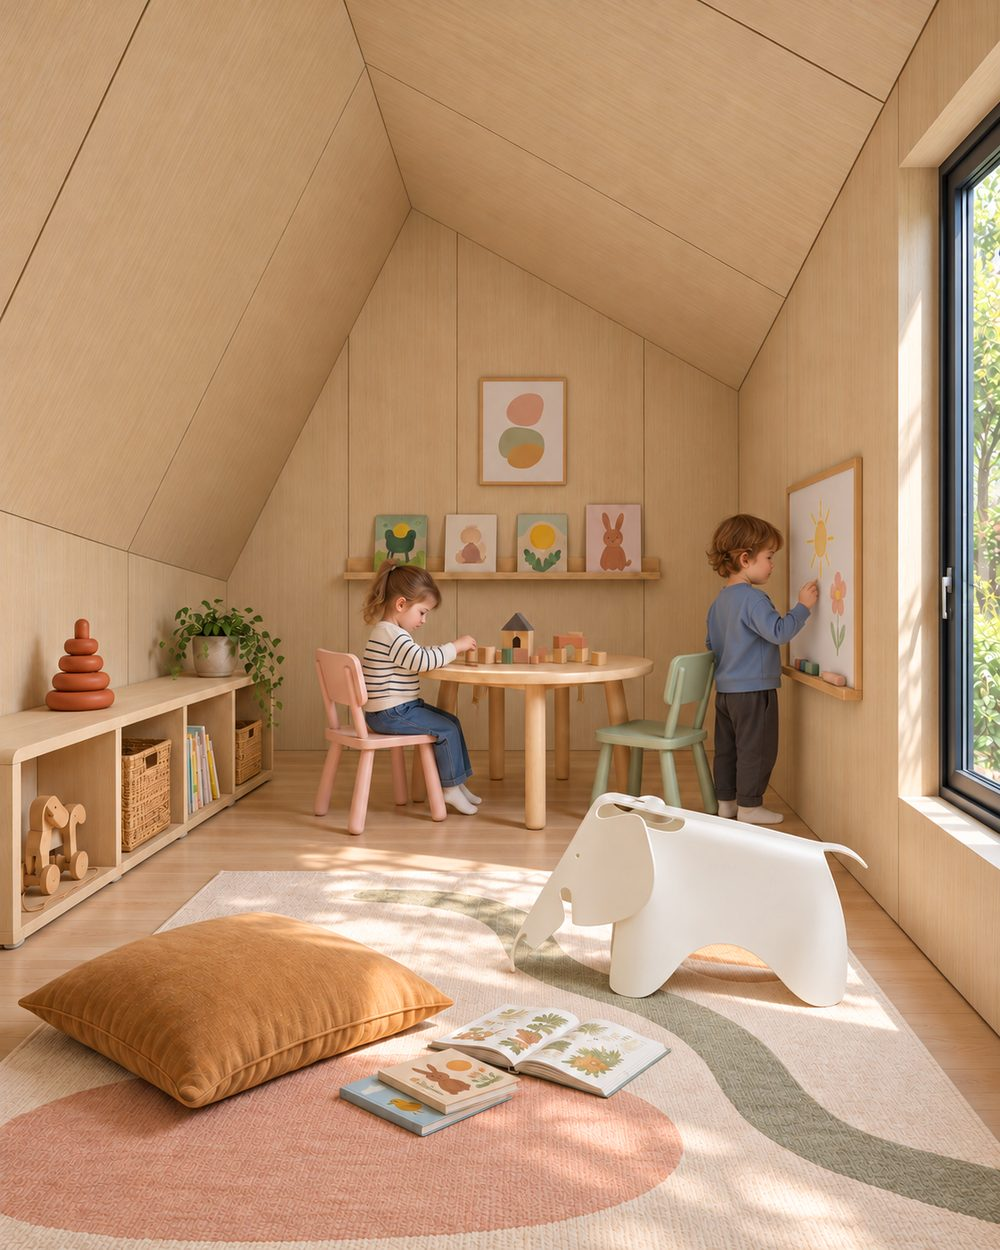
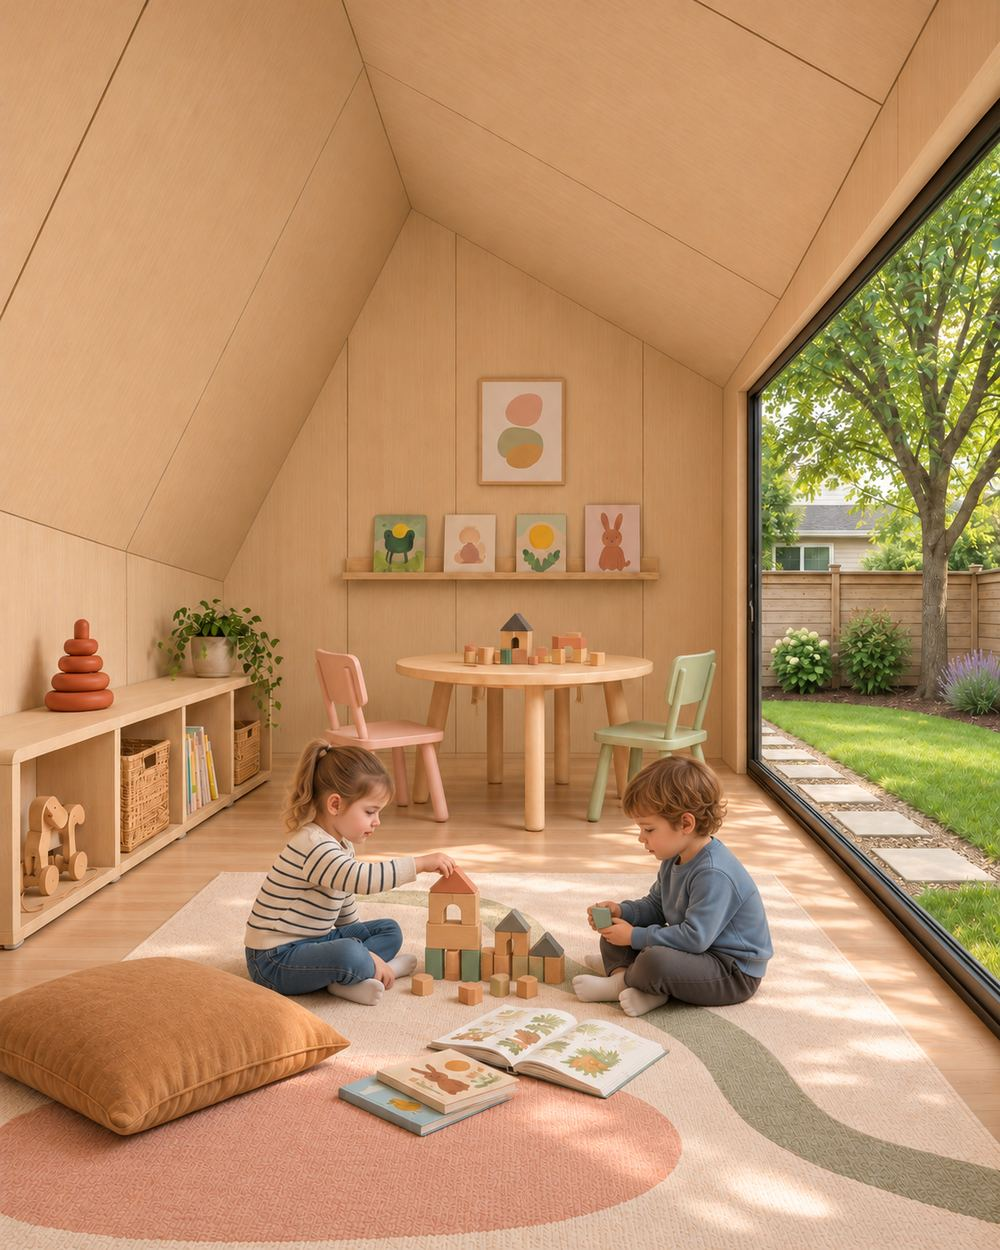
Add files via upload

diff --git a/index.html b/index.html
@@ -178,7 +178,7 @@
    "@type": "Product",
    "@id": "https://www.wavyroom.com/en/#the-sauna",
    "name": "Wavyroom The Sauna",
-   "description": "A factory-built outdoor sauna of 89 sq ft with a cedar-lined interior, two-tier bench and a Harvia Cilindro 9 kW electric heater. Charred timber exterior, assembled in three days or less.",
+   "description": "A factory-built outdoor sauna of 89 sq ft with a cedar-lined interior and a two-tier bench. Charred timber exterior, assembled in three days or less. The sauna heater is specified by us and bought separately by the owner.",
    "image": [
     "https://www.wavyroom.com/en/images/sauna-hero.jpg"
    ],
@@ -192,7 +192,7 @@
    "category": "Prefabricated backyard building",
    "offers": {
     "@type": "Offer",
-    "price": "27900",
+    "price": "25900",
     "priceCurrency": "USD",
     "availability": "https://schema.org/PreOrder",
     "url": "https://www.wavyroom.com/en/",
@@ -229,7 +229,7 @@
     {
      "@type": "PropertyValue",
      "name": "Heater",
-     "value": "Harvia Cilindro PC90E, 9 kW"
+     "value": "Harvia Cilindro PC90E 9 kW (specified; bought separately)"
     },
     {
      "@type": "PropertyValue",
@@ -1265,19 +1265,19 @@
     </figure>
     <div class="uses" style="margin-top: 32px;">
       <article class="use">
-        <img class="shot ratio-45" id="img-office" src="images/room-office.jpg" alt="A backyard office inside a Wavyroom: desk, monitor and pegboard under a pitched wood ceiling" loading="lazy">
+        <img class="shot ratio-45" id="img-office" src="images/room-office.jpg" alt="A backyard office inside a Wavyroom: a desk with a monitor and laptop under a pitched wood ceiling, the garden through a full-height glass wall" loading="lazy">
         <span class="tag">Use 01</span>
         <h3>Backyard office</h3>
         <p>A door that closes and a commute of thirty seconds.</p>
       </article>
       <article class="use">
-        <img class="shot ratio-45" id="img-play" src="images/room-play.jpg" alt="A kids' playroom inside a Wavyroom: low shelves, a small table and children drawing" loading="lazy">
+        <img class="shot ratio-45" id="img-play" src="images/room-play.jpg" alt="A kids' playroom inside a Wavyroom: two children building with blocks on a rug, low shelves and a small round table" loading="lazy">
         <span class="tag">Use 02</span>
         <h3>Playroom for kids</h3>
         <p>The mess lives out there. You can still see them from the kitchen.</p>
       </article>
       <article class="use">
-        <img class="shot ratio-45" id="img-yoga" src="images/room-yoga.jpg" alt="A yoga room inside a Wavyroom: an open floor, a mat and daylight from a tall window" loading="lazy">
+        <img class="shot ratio-45" id="img-yoga" src="images/room-yoga.jpg" alt="A yoga room inside a Wavyroom: a woman in a triangle pose on a mat, kettlebells by the wall and the garden through a full-height glass wall" loading="lazy">
         <span class="tag">Use 03</span>
         <h3>Yoga room</h3>
         <p>A floor that's always clear, ten steps from your back door.</p>
@@ -1301,14 +1301,14 @@
         <p class="model-no">Model 02</p>
         <h2 class="model-name">The Sauna</h2>
       </div>
-      <p class="model-price">From <span class="mkt" data-us="$27,900" data-ca="C$35,900">$27,900</span></p>
+      <p class="model-price">From <span class="mkt" data-us="$25,900" data-ca="C$33,900">$25,900</span></p>
     </div>
     <p class="lede" style="margin-top: 18px;">
       <span class="mkt" data-us="Same shell, built out as a Finnish sauna." data-ca="Same shell and the same footprint as the Studio, built out as a Finnish sauna.">Same shell, built out as a Finnish sauna.</span> Cedar lining, a stone heater and a two-tier bench across the far wall.
     </p>
     <figure class="model-lead" style="margin-top: 28px;">
       <img class="shot" src="images/sauna-hero.jpg" alt="A Wavyroom sauna at dusk on open ground, the door glowing, robes and sandals left outside" loading="lazy">
-      <figcaption class="cap"><b>The Sauna</b><span>89 sq ft, cedar lined, Harvia stone heater</span></figcaption>
+      <figcaption class="cap"><b>The Sauna</b><span>89 sq ft, cedar lined, two-tier bench</span></figcaption>
     </figure>
     <div class="mats" style="margin-top: 32px;">
       <figure class="mat">
@@ -1421,25 +1421,71 @@
       </div>
       <div class="heater-txt">
         <p class="eyebrow">The heater</p>
-        <h3>Harvia Cilindro, 9&nbsp;kW.</h3>
-        <p class="lede-s">Finnish-made, the heater most sauna builders specify. A tall column of stones
-        instead of a flat tray, so the heat comes off the whole height of the unit and the steam is
-        softer when you pour. Included in the price with its stones and digital controls.</p>
+        <h3>Harvia Cilindro, 9&nbsp;kW. The one part you buy yourself.</h3>
+        <p class="lede-s">Everything else arrives from our factory. The heater does not, because a sauna
+        heater built for the Korean market is not certified for sale here. You buy it locally, we tell you
+        exactly which one, and our crew fits it during assembly. That way you get a unit listed for North
+        America, a warranty you can actually use, and parts you can get in a week instead of a month.</p>
+        <p class="lede-s">The one we specify is Finnish-made and the heater most sauna builders reach for.
+        A tall column of stones instead of a flat tray, so the heat comes off the whole height of the unit
+        and the steam is softer when you pour.</p>
         <dl class="hspec">
-          <div><dt>Model</dt><dd>Harvia Cilindro PC90E</dd></div>
+          <div><dt>Model we specify</dt><dd>Harvia Cilindro PC90E</dd></div>
           <div><dt>Output</dt><dd>9.0 kW</dd></div>
           <div><dt>Room volume</dt><dd>141&ndash;494 cu ft</dd></div>
           <div><dt>Power</dt><dd>240V single phase, 37.5&nbsp;A nominal</dd></div>
-          <div><dt>Stones</dt><dd>200 lbs, included</dd></div>
-          <div><dt>Controls</dt><dd>Harvia digital control panel, included</dd></div>
+          <div><dt>Stones</dt><dd>200 lbs</dd></div>
+          <div><dt>Controls</dt><dd>Harvia digital control panel</dd></div>
+          <div><dt>Supplied by</dt><dd>You, from a North American dealer</dd></div>
         </dl>
-        <p class="fine">The heater is sourced in North America, in the version Harvia certifies for sale here, so it does not travel in the container with your unit. Supply depends on Harvia&rsquo;s North American stock at the time your order
-        is built. If this model is unavailable we supply an equivalent heater of the same output class and
-        comparable specification, and tell you which one before your order is confirmed. The 9&nbsp;kW heater
-        needs a dedicated 240V circuit sized by your electrician; that work is quoted separately and is not
-        included in the price.</p>
+        <p class="fine">The heater, its stones and its control panel are not included in the price on this page
+        and are not part of your order with us. Once your order is confirmed we send you the model and where to
+        buy it, and the unit has to be on site before assembly starts. Any heater of the same output class works,
+        so if you buy a different one, tell us and our crew fits that instead. The 9&nbsp;kW heater also needs a
+        dedicated 240V circuit sized by your electrician; that work is quoted separately too.</p>
       </div>
     </div>
+  </div>
+</section>
+
+<!-- ============================ PROOF ============================ -->
+<section id="proof">
+  <div class="wrap">
+    <p class="eyebrow">Who has been in it</p>
+    <h2 style="font-size: clamp(28px, 5vw, 48px);">Before it shipped,<br>people who know saunas got inside.</h2>
+    <p class="lede" style="margin-top: 20px; max-width: 60ch;">
+      We are new in North America. We are not new to this product. Over the past year the sauna has
+      been through the hands of the people whose job is to be hard on saunas, and it has stood on a
+      show floor with a queue in front of it.
+    </p>
+
+    <div class="uses" style="margin-top: 44px;">
+      <article class="use">
+        <img class="shot ratio-43" src="images/proof-ttne.jpg" alt="The founder of TTNE and the Wavyroom team at the Wavyroom Sauna during a visit in Korea" loading="lazy">
+        <span class="tag">Tokyo</span>
+        <h3>TTNE came and sat in it</h3>
+        <p>TTNE is the Tokyo collective behind SAUNACHELIN, the sauna ranking most of Japan reads,
+        and Harvia's premium sauna partner there. Its founder spent an afternoon in ours. Japan takes
+        its saunas seriously enough to rank them, so we wanted the room judged there first.</p>
+      </article>
+      <article class="use">
+        <img class="shot ratio-43" src="images/proof-finland.jpg" alt="A Finnish sauna master standing beside a Wavyroom Sauna" loading="lazy">
+        <span class="tag">Finland</span>
+        <h3>A Finnish master went through it</h3>
+        <p>Finland has more saunas than cars and firm views on all of them. We brought in a Finnish
+        sauna master and had him work through the room with us: bench height, where the heat sits,
+        how the air moves, how the steam behaves when you pour. Parts of what you see inside are his.</p>
+      </article>
+      <article class="use">
+        <img class="shot ratio-43" src="images/proof-expo.jpg" alt="Crowds filling the Wavyroom booth at a wellness and sauna expo in Korea" loading="lazy">
+        <span class="tag">Seoul</span>
+        <h3>And a show floor full of people</h3>
+        <p>Two days at a wellness and sauna expo in Korea with our rooms on the floor, and a queue that
+        never really cleared. That is a Saturday afternoon in the photo. It is the clearest read we have
+        on whether people actually want one of these in their own yard.</p>
+      </article>
+    </div>
+    <p class="swipe-hint">Swipe for more</p>
   </div>
 </section>
 
@@ -1513,7 +1559,7 @@
       <span class="mkt" data-us="Both models use the same shell, the same roof and the same height; the Sauna is the shorter of the two." data-ca="Both models use the same shell, roof, height and footprint; only the interior differs.">Both models use the same shell, the same roof and the same height; the Sauna is the shorter of the two.</span> Footprints are measured to the outside of the wall.
       <span class="only-us">Both sit under California's 120 sq ft permit threshold.</span><span class="only-ca">Both Canadian models sit under British Columbia's 10 m&sup2; permit threshold.</span>
       Final dimensions are confirmed on the shop drawings before your order is
-      released to the factory. The Sauna uses cedar lining and a stone heater in place of the
+      released to the factory. The Sauna uses cedar lining and a two-tier bench in place of the
       standard interior.
     </p>
   </div>
@@ -1609,16 +1655,15 @@
       <div class="plan">
         <img class="shot ratio-43" src="images/sauna-hero.jpg" alt="A Wavyroom sauna at dusk" loading="lazy" style="width:100%;object-fit:cover;border-radius:var(--r-m);margin-bottom:14px;">
         <h3>The Sauna</h3>
-        <p class="for">Outdoor sauna. Cedar lining, stone heater, built-in bench</p>
+        <p class="for">Outdoor sauna. Cedar lining, two-tier bench, heater-ready</p>
         <div class="price-row">
-          <span class="price-now"><span class="mkt" data-us="$27,900" data-ca="C$35,900">$27,900</span></span>
-          <span class="price-was"><span class="mkt" data-us="$29,900" data-ca="C$37,900">$29,900</span></span>
+          <span class="price-now"><span class="mkt" data-us="$25,900" data-ca="C$33,900">$25,900</span></span>
+          <span class="price-was"><span class="mkt" data-us="$27,900" data-ca="C$35,900">$27,900</span></span>
           <span class="price-save"><span class="mkt" data-us="Save $2,000" data-ca="Save C$2,000">Save $2,000</span></span>
         </div>
         <ul>
           <li><span>Everything in The Studio</span></li>
           <li><span>Cedar interior lining and built-in bench</span></li>
-          <li><span>Harvia Cilindro 9&nbsp;kW heater, stones and digital controls</span></li>
           <li><span>Sauna ventilation and heat-rated lighting</span></li>
           <li><span>Louvred gown rack by the door</span></li>
         </ul>
@@ -1632,6 +1677,7 @@
         <li><svg class="ic" viewBox="0 0 24 24"><use href="#ic-truck"/></svg><span><span class="mkt" data-us="Local delivery from our Los Angeles warehouse to your address" data-ca="Local delivery from our Port Coquitlam warehouse to your address">Local delivery from our Los Angeles warehouse to your address</span></span></li>
         <li><svg class="ic" viewBox="0 0 24 24"><use href="#ic-box"/></svg><span>Assembly and installation in your backyard, by our crew</span></li>
         <li><svg class="ic" viewBox="0 0 24 24"><use href="#ic-zap"/></svg><span>On-site electrical work and hookup, by a licensed electrician</span></li>
+        <li><svg class="ic" viewBox="0 0 24 24"><use href="#ic-zap"/></svg><span>The sauna heater itself. We specify it, you buy it, and our crew fits it</span></li>
         <li><svg class="ic" viewBox="0 0 24 24"><use href="#ic-pad"/></svg><span>A concrete pad or foundation mat, if you want one poured first</span></li>
         <li><svg class="ic" viewBox="0 0 24 24"><use href="#ic-file"/></svg><span>Any permit your city requires. We'll help you find out what applies</span></li>
       </ul>
